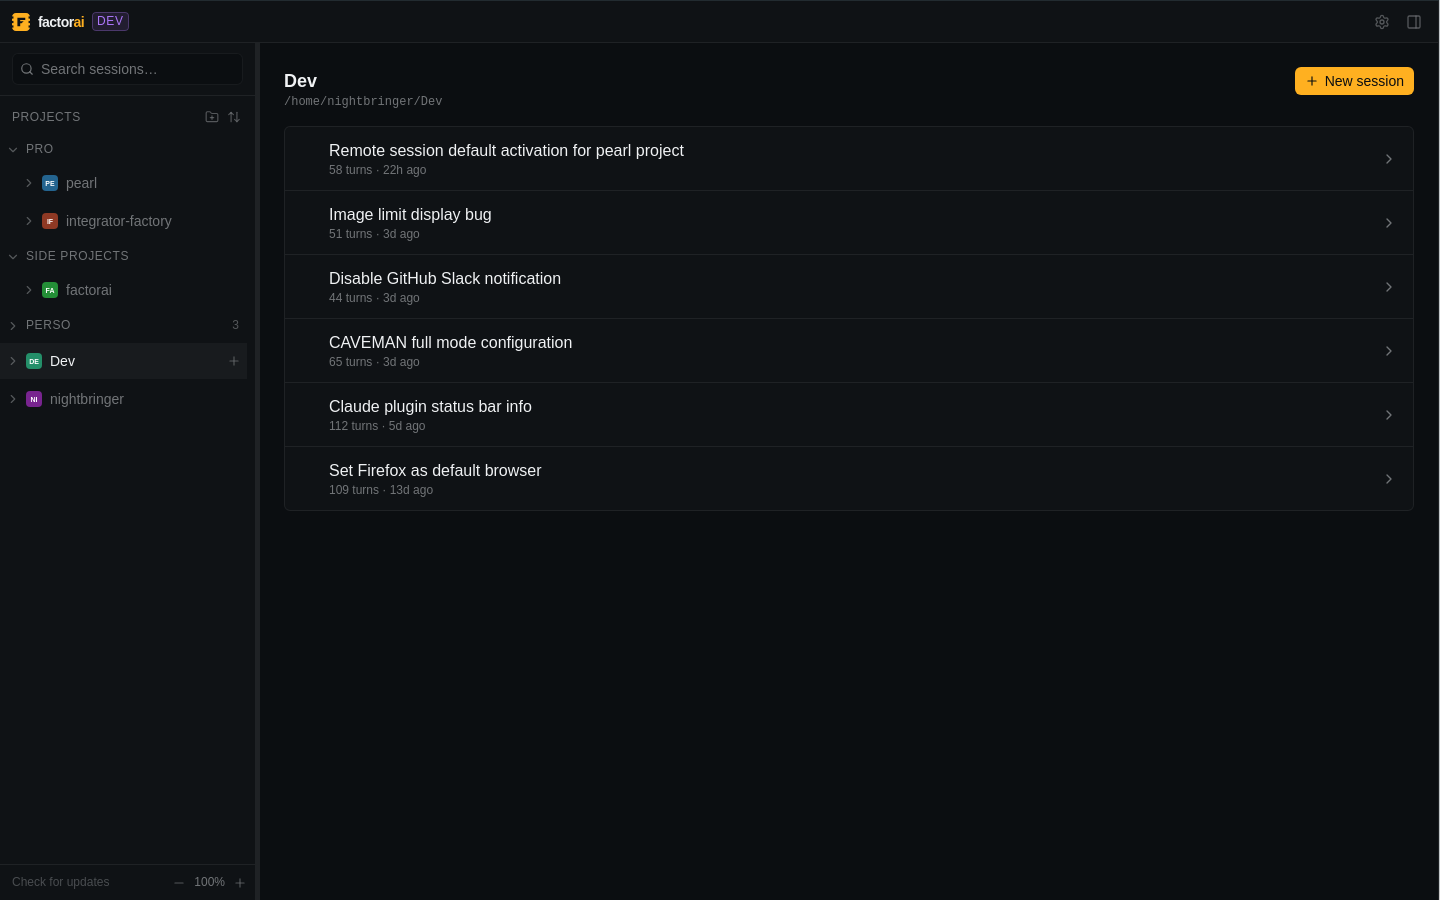
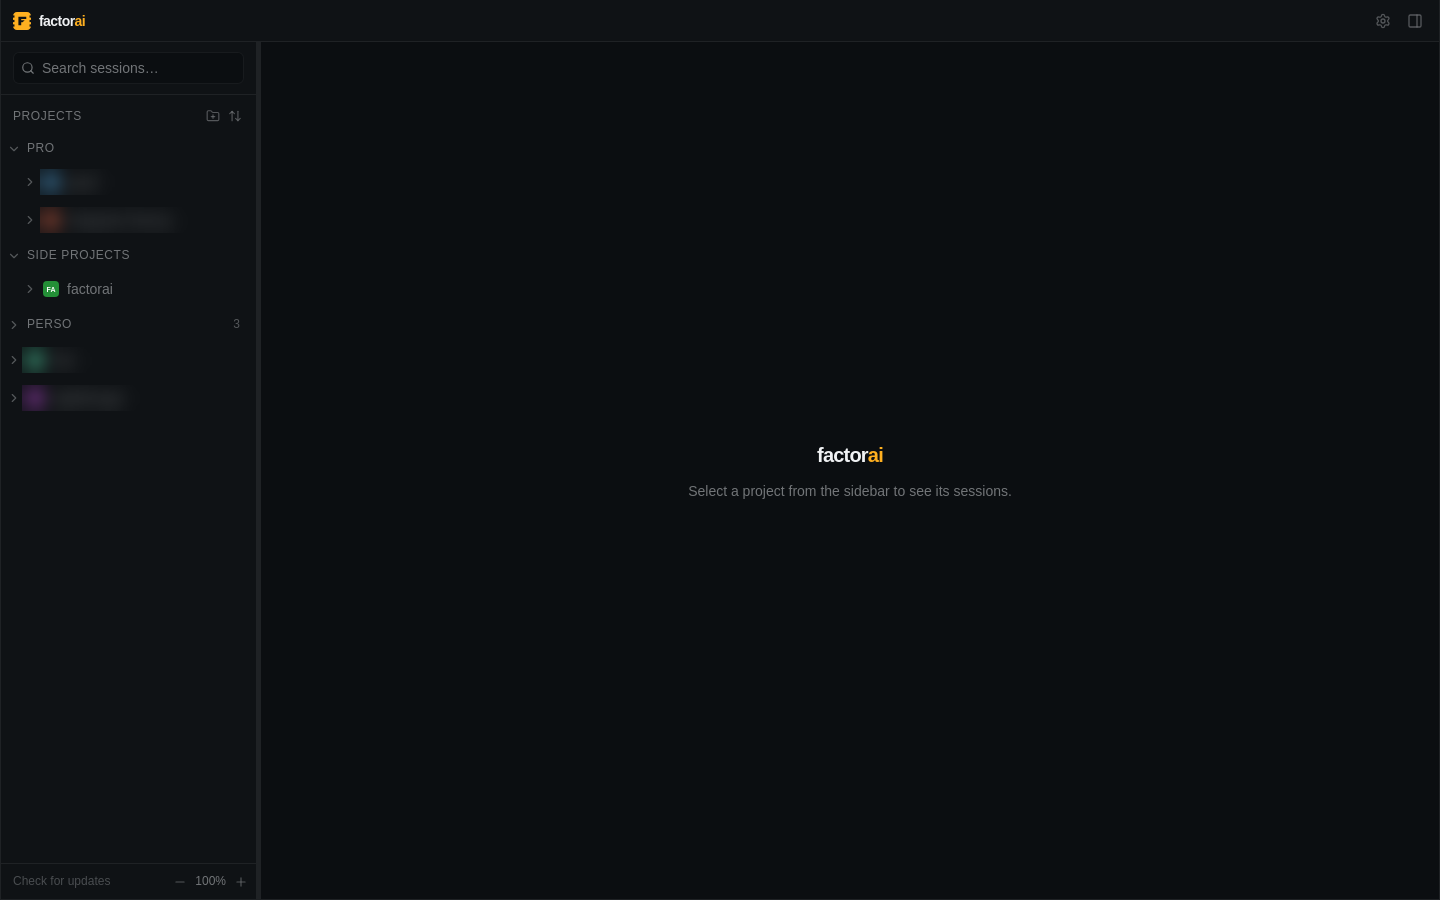
docs: a supported way to take documentation screenshots
Three things were wrong with the sidebar image committed an hour ago, and
all three are invisible until someone else opens the README: it showed the
author's real project names, it carried the violet DEV badge that no
released build has, and I had framed and cropped it by hand.

- `VITE_FACTORAI_SCREENSHOT=1` hides the badge, read by `DevBadge.tsx` and
  passed through `turbo.json`. Deliberately narrow: it does not touch the
  window title, so a dev window is still identifiable in the switcher —
  which is where the mistake that badge exists to prevent actually happens.
  Hiding it makes a README image more accurate, not less.
- `scripts/qa/doc-shot.sh` resizes the window so the client area is exactly
  1440x900 — matching the four images already in `docs/images/` — then crops
  a full-screen grab at the coordinates `xwininfo` reports. It resizes rather
  than resampling because the app is 12px and 14px type, and it grabs the
  screen rather than the window because `gnome-screenshot -w` includes a drop
  shadow whose width is reported nowhere. Guessing that margin is what put a
  slice of desktop in the first attempt.
- `scripts/qa/redact.py` blurs regions, with `--probe` to read the boxes off
  a coordinate grid instead of guessing them. Blur rather than a filled
  block: a rectangle reads as a redaction and invites the question, a blur
  reads as "not the point of this picture".
- The `app-screenshot` skill ties those together and states what to blur —
[…]

diff --git a/apps/desktop/src/components/layout/DevBadge.tsx b/apps/desktop/src/components/layout/DevBadge.tsx
@@ -32,9 +32,22 @@ import { CHIP_SHAPE } from '@lib/gitGraph';
  * The window title carries the same marker (`src-tauri/src/lib.rs`), so the
  * two are also distinguishable from the window switcher, where the header
  * isn't visible.
+ *
+ * **`VITE_FACTORAI_SCREENSHOT=1` hides it**, and that is the only thing the flag
+ * does. Documentation images are taken from a dev build against real projects —
+ * a release build has no `~/.claude` history worth photographing beyond the
+ * author's own — so the badge would appear in every README shot while being
+ * absent from the product a reader downloads. Hiding it makes the picture more
+ * accurate, not less.
+ *
+ * The flag is deliberately narrow. It does **not** touch the window title, so a
+ * dev window is still identifiable in the switcher — which is where the mistake
+ * this badge exists to prevent actually happens. Leaving it set costs a marker
+ * in a header, not the safety property.
  */
 export function DevBadge() {
 	if (!import.meta.env.DEV) return null;
+	if (import.meta.env.VITE_FACTORAI_SCREENSHOT) return null;
 
 	return (
 		<span

diff --git a/tests/smoke/projects.spec.ts b/tests/smoke/projects.spec.ts
@@ -16,6 +16,12 @@ test.describe('projects sidebar', () => {
 	// a badge that quietly stopped rendering would make every screenshot
 	// ambiguous. The absent-in-a-release-bundle half is enforced by the
 	// bundler, not by a test.
+	//
+	// This asserts the **default**. `VITE_FACTORAI_SCREENSHOT=1` hides the badge
+	// for documentation images, which are taken from a dev build and should not
+	// show a marker no released build has — see `DevBadge.tsx` and the
+	// `app-screenshot` skill. The suite never sets that variable, so a failure
+	// here means the badge broke rather than that the flag leaked.
 	test('@smoke a dev build marks itself in the header', async ({ page }) => {
 		await installMockBridge(page, { projects: [] });
 		await page.goto('/');

diff --git a/scripts/qa/redact.py b/scripts/qa/redact.py
@@ -1,0 +1,81 @@
+#!/usr/bin/env python3
+"""Blur regions of a screenshot before it ships.
+
+Usage:
+    scripts/qa/redact.py IN.png OUT.png X,Y,W,H [X,Y,W,H ...]
+    scripts/qa/redact.py IN.png --probe          # print a coordinate grid
+
+Every image in `docs/` and `README.md` is a photograph of the author's real
+machine: client and employer project names in the sidebar, `~/` paths, session
+titles naming both. Those become permanent and public the moment they are
+committed, and rewriting the file later does not remove them from the history.
+
+**Blur, not a solid block.** A filled rectangle reads as a redaction and invites
+the question; a blur reads as "not the point of this picture" and the eye moves
+on. It also keeps the row's shape, so the screenshot still shows a sidebar with
+projects in it rather than a sidebar with holes.
+
+The radius scales with the box height so a blurred name is unreadable rather than
+merely soft — a 2px blur on 12px text is still legible if you lean in, which is
+the failure mode that matters here.
+
+`--probe` writes a copy with a 100px grid and axis labels over it, so the boxes
+can be read off the image instead of guessed and re-run.
+"""
+
+from __future__ import annotations
+
+import sys
+from PIL import Image, ImageDraw, ImageFilter
+
+
+def probe(path: str) -> None:
+    im = Image.open(path).convert("RGB")
+    draw = ImageDraw.Draw(im)
+    for x in range(0, im.width, 100):
+        draw.line([(x, 0), (x, im.height)], fill=(255, 0, 128), width=1)
+        draw.text((x + 2, 2), str(x), fill=(255, 0, 128))
+    for y in range(0, im.height, 100):
+        draw.line([(0, y), (im.width, y)], fill=(0, 200, 255), width=1)
+        draw.text((2, y + 2), str(y), fill=(0, 200, 255))
+    out = path.rsplit(".", 1)[0] + "-probe.png"
+    im.save(out)
+    print(f"[redact] grid → {out} ({im.width}x{im.height})")
+
+
+def main() -> int:
+    if len(sys.argv) < 3:
+        print(__doc__)
+        return 64
+
+    if sys.argv[2] == "--probe":
+        probe(sys.argv[1])
+        return 0
+
+    src, dst, boxes = sys.argv[1], sys.argv[2], sys.argv[3:]
+    if not boxes:
+        print("[redact] no regions given — nothing would be blurred", file=sys.stderr)
+        return 64
+
+    im = Image.open(src).convert("RGB")
+    for spec in boxes:
+        try:
+            x, y, w, h = (int(part) for part in spec.split(","))
+        except ValueError:
+            print(f"[redact] not an X,Y,W,H box: {spec!r}", file=sys.stderr)
+            return 64
+        if w <= 0 or h <= 0:
+            print(f"[redact] box has no area: {spec!r}", file=sys.stderr)
+            return 64
+        region = im.crop((x, y, x + w, y + h))
+        # Tied to the box height, so text is destroyed rather than softened.
+        im.paste(region.filter(ImageFilter.GaussianBlur(max(4, h // 3))), (x, y))
+        print(f"[redact] blurred {w}x{h} at ({x}, {y})")
+
+    im.save(dst, optimize=True)
+    print(f"[redact] {dst}")
+    return 0
+
+
+if __name__ == "__main__":
+    sys.exit(main())

diff --git a/.claude/skills/app-screenshot/SKILL.md b/.claude/skills/app-screenshot/SKILL.md
@@ -1,0 +1,82 @@
+---
+name: app-screenshot
+description: Capture a factorai screenshot for README.md, docs/ or a release note — correct size, no DEV badge, private project names blurred. Use when asked to add, retake or update a screenshot of the app in documentation.
+---
+
+# Taking a screenshot of factorai for documentation
+
+Four things go wrong every time, and three of them are invisible until someone
+else opens the README:
+
+1. **The DEV badge.** Documentation images come from a dev build — a release build
+   has no `~/.claude` history worth photographing — so the violet `DEV` chip
+   appears in the shot while being absent from the product a reader downloads.
+2. **Private names.** The window is full of the author's real work: client and
+   employer project names in the sidebar, `~/` paths, session titles naming both.
+   Committing those publishes them permanently; a later edit does not remove them
+   from the git history.
+3. **The size.** Every image in `docs/images/` is 1440×900 of the client area. One
+   that is a different size, or that carries the window frame and the
+   compositor's drop shadow, reads as a mistake.
+4. **Resampling.** The app is 12px and 14px type throughout. Scaling a capture
+   down turns it to mush, and the sidebar is the first thing to go.
+
+## The loop
+
+**Launch with the flag.** `VITE_FACTORAI_SCREENSHOT=1` is the supported way to
+suppress the badge — it is read by `DevBadge.tsx` and passed through
+`turbo.json`'s `globalPassThroughEnv`. Nothing else changes; the window *title*
+still says DEV, which is what actually keeps a dev window distinguishable in the
+switcher.
+
+```bash
+scripts/qa/kill.sh                                   # if one is already running
+VITE_FACTORAI_SCREENSHOT=1 scripts/qa/launch.sh
+```
+
+**Set the app up before capturing, and prefer framing over blurring.** A shot
+with no project selected leaks nothing from the main pane. Group names you chose
+("Pro", "Side projects") are the point of a sidebar picture and stay legible. Ask
+what the image is *for* and show only that.
+
+**Capture.**
+
+```bash
+scripts/qa/doc-shot.sh docs/images/factorai-<subject>.png
+```
+
+It resizes the window so the client area is exactly 1440×900, crops the frame and
+shadow off by the measured offset, and refuses rather than resampling if the WM
+declined the resize.
+
+**Find the regions to blur, then blur them.** Read the coordinates off the image
+instead of guessing:
+
+```bash
+scripts/qa/redact.py docs/images/factorai-<subject>.png --probe   # grid overlay
+scripts/qa/redact.py in.png out.png 60,170,130,26 60,208,130,26
+```
+
+Blur every real project name **except `factorai` itself**, the home path, and any
+session title naming a real project. Leave the chrome, the group names and the
+app's own name — those are what the picture is for. Delete the `-probe.png` when
+done.
+
+**Look at the result** before committing it. Read it as a stranger: is anything
+identifiable still legible, and does the image still show the thing the section
+is about?
+
+## Referencing it
+
+Match the existing style in `README.md` — one image per section, alt text that
+says what the picture shows rather than repeating the heading:
+
+```markdown
+![The sidebar with projects grouped into Pro, Side projects and Perso](docs/images/factorai-sidebar.png)
+```
+
+## If the resize is refused
+
+`doc-shot.sh` exits rather than guess. The window is tiled, maximised, or the WM
+is honouring a size hint — un-maximise it and run again. These scripts are X11 +
+GNOME only, like the rest of `scripts/qa/` (see its README).

diff --git a/scripts/qa/README.md b/scripts/qa/README.md
@@ -11,6 +11,8 @@ Linux/X11 + GNOME.
 | `focus.sh` | Brings factorai to the front via `wmctrl -a` | ✓ |
 | `screenshot.sh OUT.png` | Captures the active window via `gnome-screenshot` (fallback: `import`, `scrot`) | ✓ |
 | `geometry.sh` | Prints `WIDTH HEIGHT X Y` of the content window | ✓ |
+| `doc-shot.sh OUT.png` | A documentation image: 1440x900 of the client area, no frame, no shadow, no resampling. Launch with `VITE_FACTORAI_SCREENSHOT=1` first so the DEV badge is absent | ✓ README, 2026-08-27 |
+| `redact.py IN OUT X,Y,W,H…` | Blurs regions before an image ships; `--probe` writes a coordinate grid to read the boxes off | ✓ |
 | `drag.sh FX FY TX TY [STEPS]` | Press, step, release — a real pointer drag for the dnd-kit surfaces (session tabs, project rows). **Content-relative coordinates**, unlike `click.sh` — see below | ✓ project reorder, 2026-08-26 |
 | `kill.sh` | Descends pgrep tree from launcher pid, kills children deepest-first; sweeps stray dev factorai subtrees | ✓ exit 0, no survivors |
 | `_resolve_wid.sh` | Internal helper: picks the right factorai window from `wmctrl -lG` (skips the 10×10 phantom + outer frame) | — |
@@ -126,6 +128,24 @@ FACTORAI_DEVTOOLS=1 scripts/qa/launch.sh
 scripts/qa/screenshot.sh /tmp/qa-debug.png
 scripts/qa/kill.sh
 ```
+
+## Documentation images
+
+**`doc-shot.sh` grabs the whole screen and crops, rather than reusing
+`screenshot.sh`.** `gnome-screenshot -w` includes the decoration *and* the
+compositor's drop shadow, and the shadow's width is reported nowhere — so
+cropping the client area out of that capture means guessing a margin, and a wrong
+guess ships a README image with a slice of desktop in it. That is exactly what
+happened on the first attempt. A full-screen grab needs no guess: the client area
+sits at the absolute coordinates `xwininfo` reports. The trade is that it fails
+loudly on a scaled display rather than quietly producing a soft image.
+
+It also resizes the window instead of resampling the capture. The app is 12px and
+14px type throughout, and scaling a screenshot down turns the sidebar to mush.
+
+**An image that ships gets its private names blurred**, and the `app-screenshot`
+skill owns that checklist — what to blur, what to leave legible, and why framing
+the shot to avoid the problem beats blurring it away.
 
 ## Tooling deps
 

diff --git a/AGENTS.md b/AGENTS.md
@@ -136,6 +136,19 @@ For UI / behaviour work, also: launch the app (`pnpm dev`) and **use
 the feature** in the actual window. Type checking does not validate
 UX. Screenshots in a commit are great.
 
+**A screenshot that ships — `README.md`, `docs/`, a release note — is not the
+same act as a screenshot in a commit.** It is permanent and public, and the
+window is full of the author's real work: client and employer project names,
+personal repositories, `~/` paths, session titles naming both. Blur those before
+committing; a later edit does not remove them from the history. It also must not
+carry the `DEV` badge, which no released build shows, and it is 1440×900 of the
+client area like every image already in `docs/images/`.
+
+**Use the `app-screenshot` skill** — it owns that checklist, along with
+`VITE_FACTORAI_SCREENSHOT=1` (the supported way to suppress the badge),
+`scripts/qa/doc-shot.sh` for the framing, and `scripts/qa/redact.py` for the
+blurring.
+
 Tests live next to the code: `src/lib/foo.test.ts` next to
 `src/lib/foo.ts` on the TS side; `tests/foo_integration.rs` for cross-
 module Rust tests, `#[cfg(test)] mod tests` for in-module unit tests.
